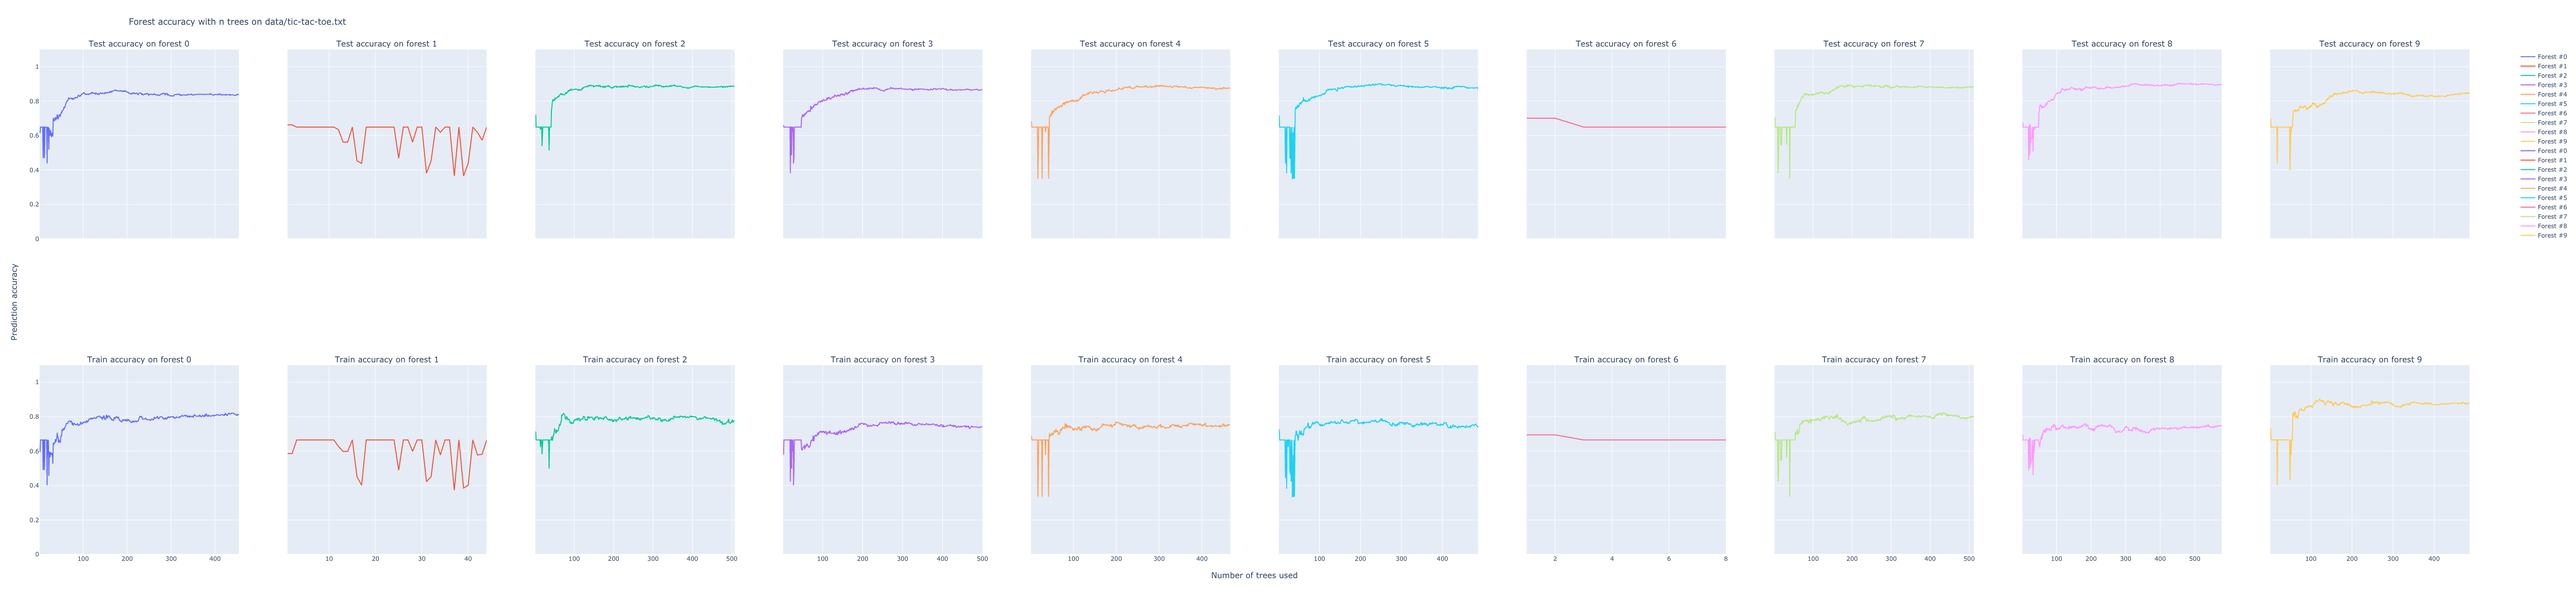
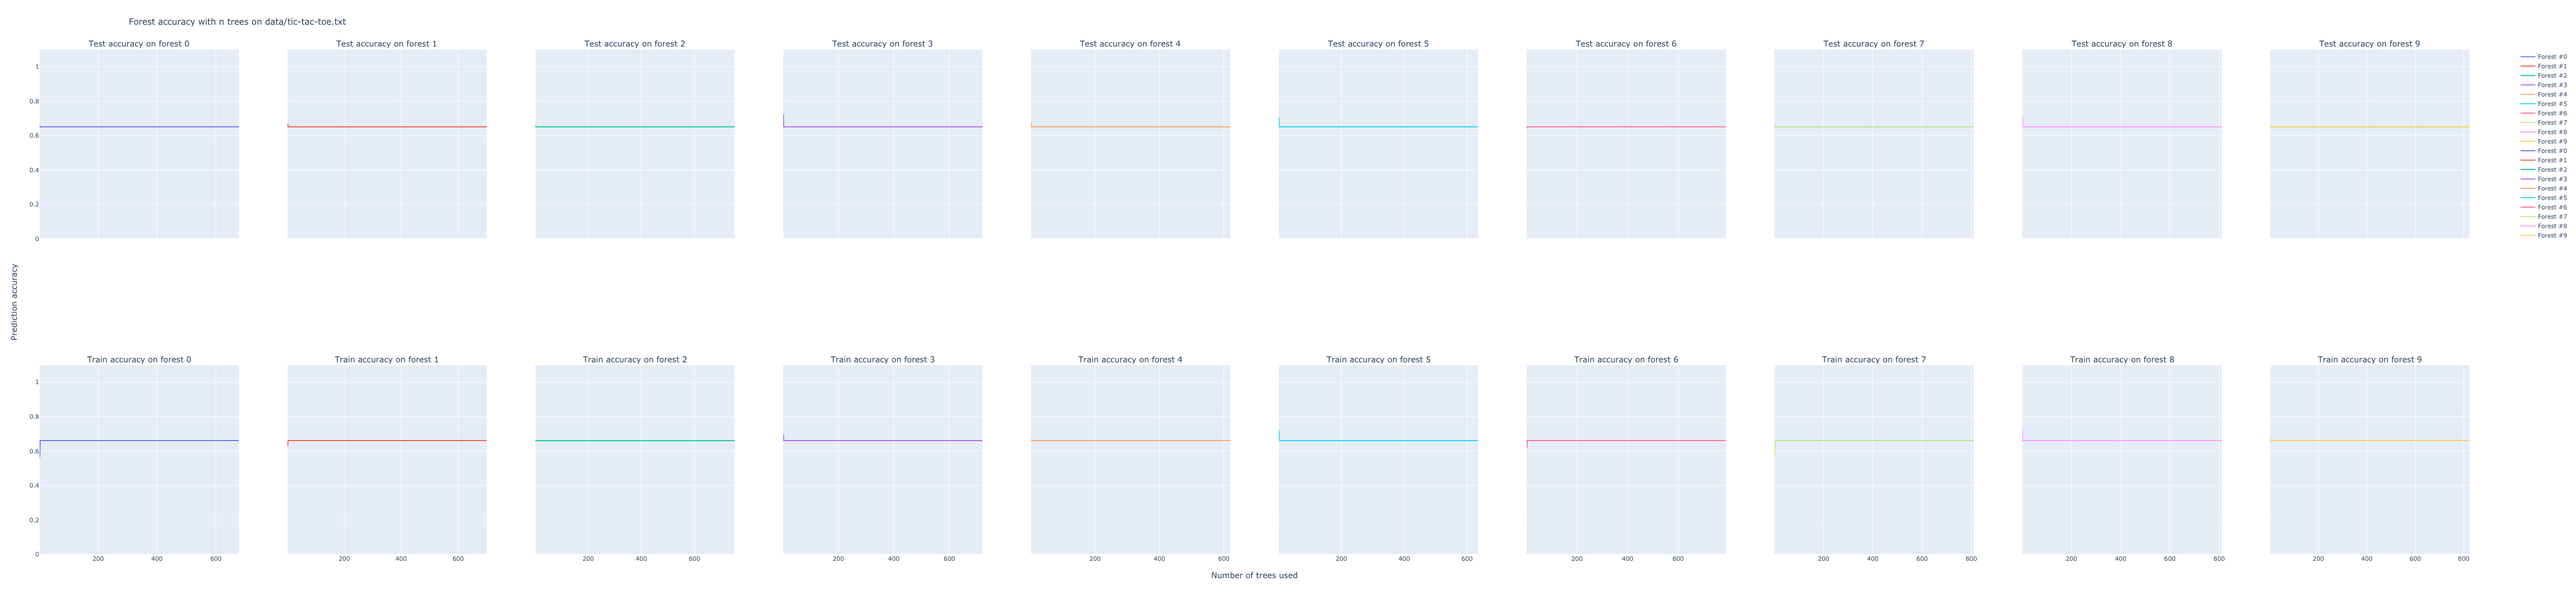
noon double post fix

diff --git a/source/utils/forest_core.py b/source/utils/forest_core.py
@@ -9,7 +9,8 @@ import copy
 import sys
 import os
 
-D = 0.1
+D = 1
+MAX_ACC = False
 
 
 class Forest(BaseEstimator, ClassifierMixin):
@@ -314,14 +315,23 @@ def calculate_tree_weights(pred, c, prev_tree_weights=None):
 
     rho = m.addVar(vtype=GRB.CONTINUOUS, name="rho", lb=float("-inf"))
 
-    m.setObjective(rho - D * quicksum(error_margin), GRB.MAXIMIZE)
+    if MAX_ACC:
+        m.setObjective(quicksum(error_margin), GRB.MAXIMIZE)
+    else:
+        m.setObjective(rho - D * quicksum(error_margin), GRB.MAXIMIZE)
 
     m.addConstr(quicksum(tree_weights) == 1, name="weights = 1")
-    for i in range(sample_count):
-        m.addConstr(quicksum([c[i] * tree_weights[t] * pred[t][i] for t in range(tree_count)]) + error_margin[i] >= rho,
-                    name="Constraint on sample " + str(i))
+    if MAX_ACC:
+        for i in range(sample_count):
+            m.addConstr(error_margin[i] <= (
+                    quicksum([c[i] * tree_weights[t] * pred[t][i] for t in range(tree_count)]) + 1))
+    else:
+        for i in range(sample_count):
+            m.addConstr(
+                quicksum([c[i] * tree_weights[t] * pred[t][i] for t in range(tree_count)]) + error_margin[i] >= rho,
+                name="Constraint on sample " + str(i))
 
     m.setParam("LogToConsole", 0)
     m.optimize()
 
-    return [w.X for w in tree_weights], rho.X
+    return [w.X for w in tree_weights], sum([em.X for em in error_margin]) if MAX_ACC else rho.X

diff --git a/source/utils/learning_manager.py b/source/utils/learning_manager.py
@@ -24,7 +24,7 @@ kwargs = {
     "DL8-forest": {'n_estimators': 10, 'max_depth': 3, 'attributes': "all"},
     "DL8-forest2": {'n_estimators': 10, 'max_depth': 2, 'attributes': "all"},
     "OptDL8-forest": {'n_estimators': 1, 'max_depth': 3, 'method': "all", 'attributes': "progressive"},
-    "OptDL8-forest2": {'n_estimators': 1, 'max_depth': 2, 'method': "all", 'attributes': "progressive"},
+    "OptDL8-forest2": {'n_estimators': 1, 'max_depth': 1, 'method': "all", 'attributes': "progressive"},
     "G-boosting": {'n_estimators': 100, 'max_depth': 3}
 }
 
